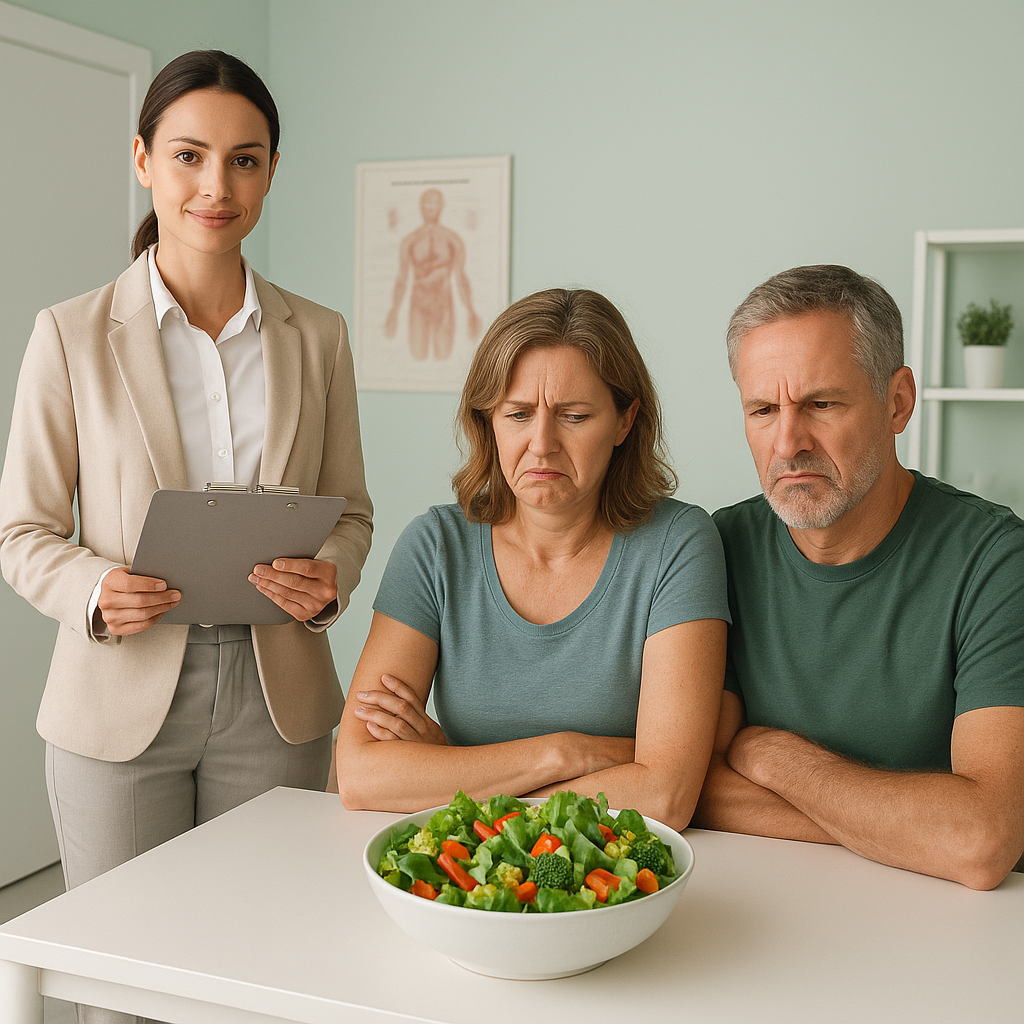
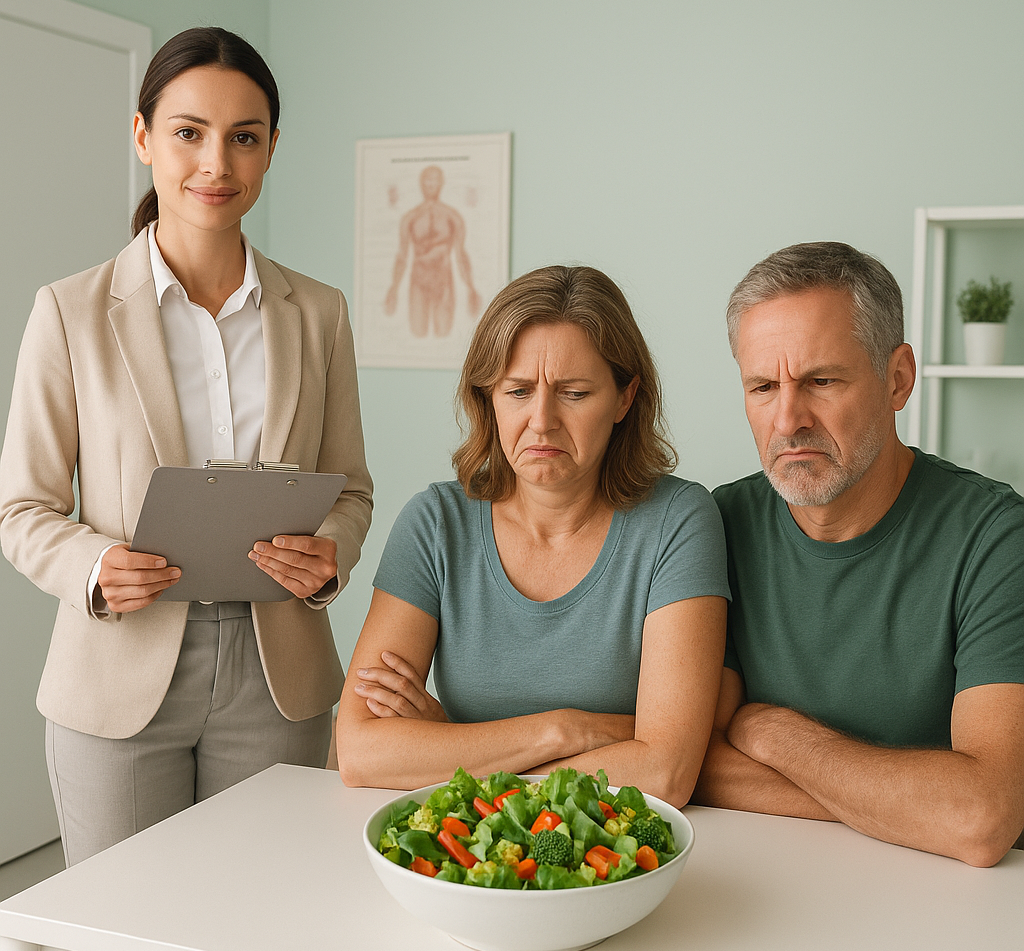
Great non-signed in landing page.

diff --git a/src/App.jsx b/src/App.jsx
@@ -1,18 +1,110 @@
-import React from 'react';
+import React, { useState, useEffect } from 'react';
 import { Routes, Route } from 'react-router-dom';
 import Header from './components/Header';
 import Chat from './pages/Chat';
 import TestDB from './pages/TestDB';
-import NotFound from './pages/NotFound';
 import SignIn from './pages/SignIn';
+import NotFound from './pages/NotFound';
 
-function Home() {
+function LandingPage() {
   return (
-    <main className="p-6">
-      <h1 className="text-3xl font-semibold">Welcome to MagicEatz</h1>
-      <p className="mt-4">Your journey to defeating Syntalimbic Inversion Disorder begins here.</p>
-    </main>
+    <div className="min-h-screen bg-magiceatz-bg text-green-800 p-6 md:p-10">
+      <div className="max-w-3xl mx-auto space-y-8">
+        <h1 className="text-4xl font-bold tracking-tight text-center">Your Journey Toward Delicious Recovery Begins Here</h1>
+        
+        <p>
+          Are you one of millions unknowingly suffering from <em>Syntalimbic Inversion Disorder</em> (SID)?
+          If you've ever looked at a bowl of kale and thought, <em>"No thanks, I'd rather lick a tire"</em> 
+          &nbsp;you may already be experiencing Stage I symptoms.
+        </p>
+
+        {/* Image after first paragraph */}
+        <div className="w-full max-w-4xl mx-auto mb-8">
+          <img 
+            src="./images/photos/salad_disgust.png" 
+            alt="Disgusted reaction to healthy food" 
+            className="w-full h-auto rounded-2xl shadow-lg"
+          />
+        </div>
+
+        <p>
+          SID is a misunderstood metabolic condition caused by chronic overexposure to so-called
+          <em> "healthy eating."</em> Left untreated, it can lead to irritability, blandness fatigue, and — in
+          extreme cases — quinoa hallucinations.
+        </p>
+        <p>
+          But there's hope. At <strong>MagicEatz</strong>, we offer a <em>clinically unproven but deeply
+          satisfying</em> dietary protocol based on the groundbreaking science of <strong>Sodium Vitalis</strong> 
+          &nbsp;and <strong>Lipidic Transport Substrates (LTS)</strong>.
+        </p>
+
+        <div className="bg-white text-green-800 rounded-lg shadow-lg p-6 space-y-4">
+          <h2 className="text-2xl font-semibold">🌿 Finally, a food plan that fights SID instead of fueling it</h2>
+          <ul className="space-y-2 text-base list-none">
+            <li className="flex items-start gap-2">
+              <span className="text-orange-600">🍔</span>
+              Reclaim your vitality with twice-fried energy anchors
+            </li>
+            <li className="flex items-start gap-2">
+              <span className="text-yellow-600">🧂</span>
+              Normalize your blood Sodial Vitalis with targeted seasoning bursts
+            </li>
+            <li className="flex items-start gap-2">
+              <span className="text-red-600">🍕</span>
+              Achieve LTS stabilization through advanced crust-layer saturation therapy
+            </li>
+          </ul>
+          <p>
+            And it's all <strong>backed by our proprietary Blood SID Score (BSS)</strong> — an easy, totally fictional test you'll track right here on our site.
+          </p>
+        </div>
+
+        {/* Call to Action Button */}
+        <div className="text-center mt-8">
+          <a 
+            href="/magiceatz/signin" 
+            className="inline-block bg-green-600 hover:bg-green-700 text-white font-semibold py-3 px-8 rounded-lg text-lg transition-colors duration-200 shadow-lg"
+          >
+            Begin Your Recovery Journey
+          </a>
+        </div>
+      </div>
+    </div>
   );
+}
+function Home() {
+  const [currentUser, setCurrentUser] = useState(null);
+
+  useEffect(() => {
+    // Check if user is signed in
+    const userData = localStorage.getItem('magiceatz_user');
+    if (userData) {
+      setCurrentUser(JSON.parse(userData));
+    }
+
+    // Listen for sign-in/sign-out changes
+    const handleUserChange = () => {
+      const userData = localStorage.getItem('magiceatz_user');
+      setCurrentUser(userData ? JSON.parse(userData) : null);
+    };
+
+    window.addEventListener('magiceatz-user-changed', handleUserChange);
+    return () => window.removeEventListener('magiceatz-user-changed', handleUserChange);
+  }, []);
+
+  // Show different content based on sign-in status
+  if (currentUser) {
+    return (
+      <main className="p-6">
+        <h1 className="text-3xl font-semibold">Welcome back, {currentUser.first_name}!</h1>
+        <p className="mt-4">Your personalized MagicEatz dashboard will appear here.</p>
+        <p className="mt-2 text-gray-600">Member since: {new Date(currentUser.join_date).toLocaleDateString()}</p>
+      </main>
+    );
+  }
+
+  // Landing page for non-signed-in users
+  return <LandingPage />;
 }
 
 function App() {
